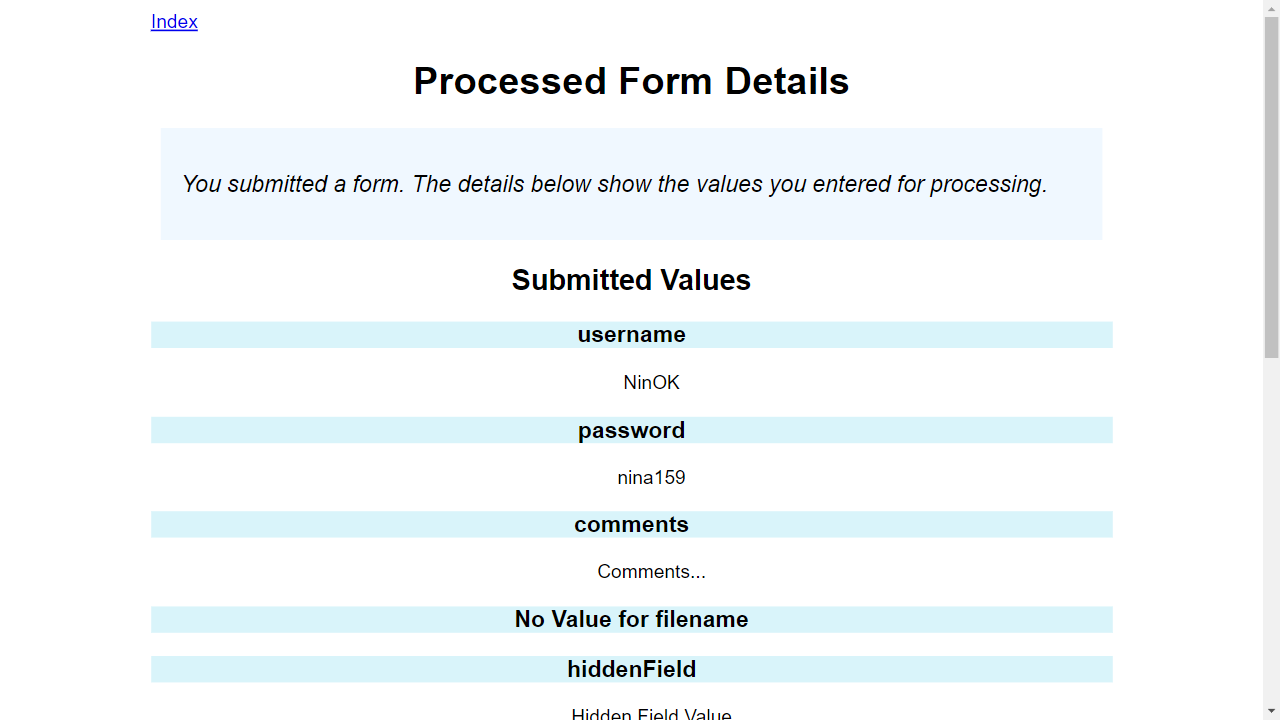
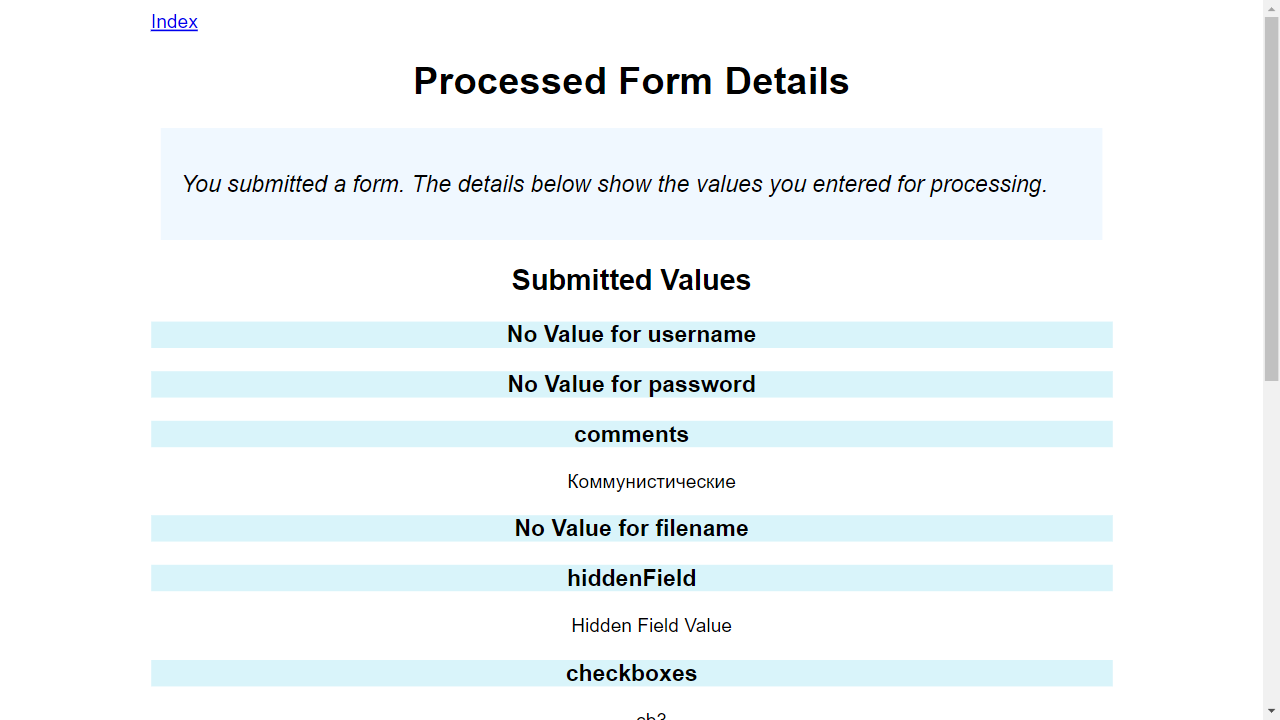
Playwright

Changed region(s): [[0.0938, 0.5806, 0.875, 1.0], [0.0938, 0.4583, 0.875, 0.55], [0.9688, 0.4889, 1.0, 0.55]]

diff --git a/testpages/tests/tests_faker.py b/testpages/tests/tests_faker.py
@@ -1,0 +1,71 @@
+import pytest
+from playwright.sync_api import sync_playwright, Page, BrowserContext
+from testpages.data.data_form_example import *
+from testpages.locators.locators_form_exemple import *
+from testpages.data.data_faker import *
+
+@pytest.fixture
+def get_playwright():
+    with sync_playwright() as playwright:
+        yield playwright
+
+
+@pytest.fixture
+def browser(get_playwright):
+    browser = get_playwright.chromium.launch(headless=False)
+    yield browser
+    browser.close()
+
+
+@pytest.fixture
+def browser_context(browser):
+    context = browser.new_context(accept_downloads=True)
+    yield context
+    context.close()
+
+
+@pytest.fixture
+def page(browser_context: BrowserContext):
+    page = browser_context.new_page()
+    yield page
+    page.close()
+
+
+@pytest.fixture
+def username_press(page: Page):
+    def username_press_func():
+        test_data = generate_test_data_mimesis()
+        page.goto(data_page_form_exemple)
+        page.wait_for_timeout(3000)
+        page.locator(locator_username).fill(test_data["name"])
+        page.locator(locator_password).fill(test_data["pass"])
+        page.wait_for_timeout(3000)
+        page.click(locator_submit)
+        page.wait_for_timeout(3000)
+        page.screenshot(path="screenshots/username_press.png")
+
+    return username_press_func
+
+
+@pytest.fixture
+def textarea(page: Page):
+    def textarea_func():
+        test_data = generate_test_data_mimesis()
+        page.goto(data_page_form_exemple)
+        page.wait_for_timeout(3000)
+        page.locator(locator_textarea).fill(test_data["text"])
+
+    #def key_textarea(locator_textarea: str, data_textarea: str):
+    #    page.click(locator_textarea)
+    #    page.keyboard.down('Shift')
+    #    for _ in range(8):
+    #        page.keyboard.press('ArrowLeft')
+    #        page.keyboard.up('Shift')
+    #        page.keyboard.type(data_textarea)
+    #    key_textarea(locator_textarea, data_textarea)
+        page.wait_for_timeout(3000)
+        page.click(locator_submit)
+        page.wait_for_timeout(3000)
+        page.screenshot(path="screenshots/username_press.png")
+
+    return textarea_func

diff --git a/testpages/data/data_faker.py b/testpages/data/data_faker.py
@@ -1,0 +1,57 @@
+from faker import Faker
+from faker.providers import BaseProvider
+from mimesis import Person
+from mimesis.locales import Locale
+import factory
+from hypothesis import strategies as st
+
+fake = Faker("ru_RU")
+
+
+def generate_test_data_faker():
+    return {
+        "name": fake.name(),
+        "pass": fake.password(),
+        "text": fake.passport_full(),
+    }
+
+
+def generate_test_data_mimesis():
+    chel = Person(Locale.RU)
+    return {
+        "name": chel.full_name(),
+        "pass": chel.password(),
+        "text": chel.political_views(),
+    }
+
+
+class User:
+    def __init__(self, name, email, address, password, phone_number):
+        self.name = name
+        self.email = email
+        self.address = address
+        self.phone_number = phone_number
+        self.password = password
+
+
+class UserFactory(factory.Factory):
+    class Meta:
+        model = User
+    name = factory.LazyAttribute(lambda _: fake.name())
+    email = factory.LazyAttribute(lambda _: fake.email())
+    address = factory.LazyAttribute(lambda _: fake.address())
+    phone_number = factory.LazyAttribute(lambda _: fake.phone_number())
+    password = factory.LazyAttribute(lambda _: fake.password())
+
+@st.composite
+def generate_test_data_hypothesis(draw):
+    name = draw(st.text())
+    email = draw(st.emails())
+    password = draw(st.text())
+    text = draw(st.text())
+    return {
+        "name": name,
+        "email": email,
+        "password": password,
+        "text": text
+    }

diff --git a/testpages/tests/tests_form_exemple.py b/testpages/tests/tests_form_exemple.py
@@ -149,6 +149,7 @@ def dropdown(page: Page):
         page.wait_for_timeout(1000)
         page.click(locator_submit)
         page.wait_for_timeout(1000)
-        page.screenshot(path="screenshots/dropdown.png")
+        page.screenshot(path="screenshots/dropdownя просто забыла все"
+                             ".png")
 
     return dropdown_func

diff --git a/testpages/run/run_tests/run_faker.py b/testpages/run/run_tests/run_faker.py
@@ -1,0 +1,11 @@
+from testpages.tests.tests_faker import *
+
+
+@pytest.mark.smoke
+def test_username_press(page: Page, username_press):
+    username_press()
+
+
+@pytest.mark.smoke
+def test_textarea(page: Page, textarea):
+    textarea()
